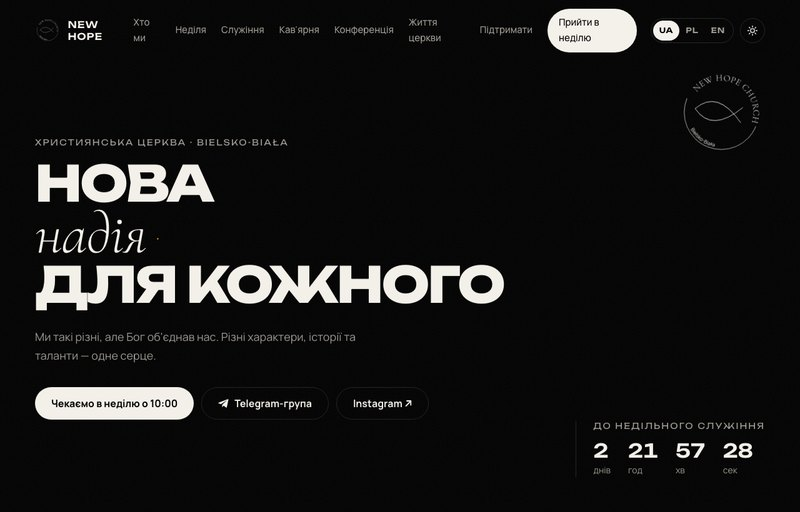
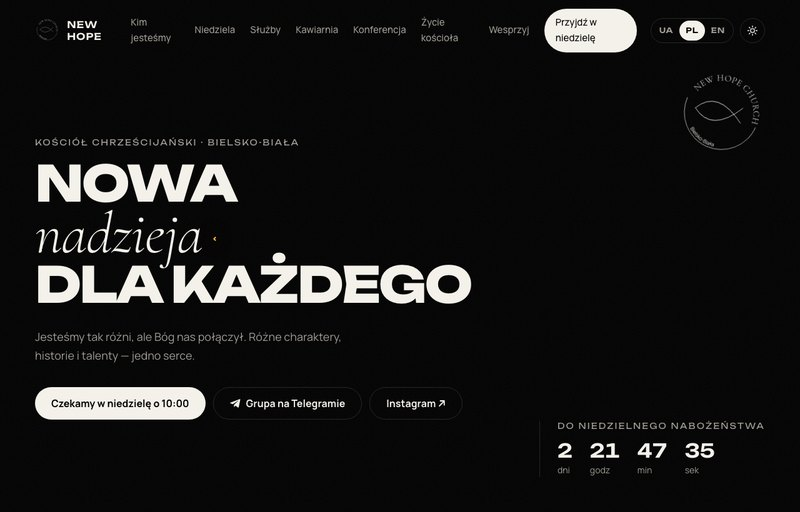
Portfolio: New Hope Church — polska wersja (zrzut ?lang=pl + link do PL)

diff --git a/index.html b/index.html
@@ -763,7 +763,7 @@
             <h3>New Hope Church</h3>
             <div class="tag">Strona · wielojęzyczna</div>
             <p>Strona wspólnoty chrześcijańskiej w Bielsku-Białej — wielojęzyczna (UA/PL/EN), z licznikiem do nabożeństwa i integracją z social media.</p>
-            <a class="link" href="https://newhope77.github.io/new-hope-church/" target="_blank" rel="noopener">Zobacz stronę <span class="ar">→</span></a>
+            <a class="link" href="https://newhope77.github.io/new-hope-church/?lang=pl" target="_blank" rel="noopener">Zobacz stronę <span class="ar">→</span></a>
           </div>
         </article>
         <article class="work reveal">
